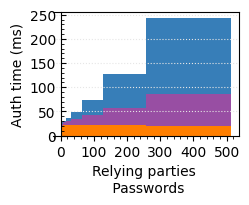
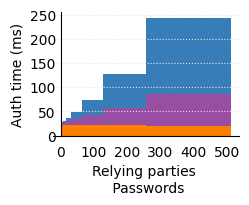
plot fix

Changed region(s): [[0.2249, 0.0585, 0.9839, 0.6439], [0.6185, 0.6732, 0.6466, 0.7024]]

diff --git a/scripts/plot_pw.py b/scripts/plot_pw.py
@@ -65,7 +65,7 @@ labels.reverse()
 
 ax.spines['left'].set_position("zero")
 #ax.spines['bottom'].set_position("zero")
-#remove_chart_junk(plt,ax,grid=True,below=False)
+remove_chart_junk(plt,ax,grid=True,below=False)
 
 ax.yaxis.grid(which='major', color='0.9', linestyle=':')
 plt.savefig(out_name, bbox_inches='tight')

diff --git a/scripts/plot_totp.py b/scripts/plot_totp.py
@@ -49,7 +49,7 @@ labels.reverse()
 
 #ax.spines['left'].set_position("zero")
 ax.spines['bottom'].set_position("zero")
-#remove_chart_junk(plt,ax,grid=True,below=False)
+remove_chart_junk(plt,ax,grid=True,below=False)
 
 ax.yaxis.grid(which='major', color='0.9', linestyle=':')
 plt.savefig(out_name, bbox_inches='tight')
